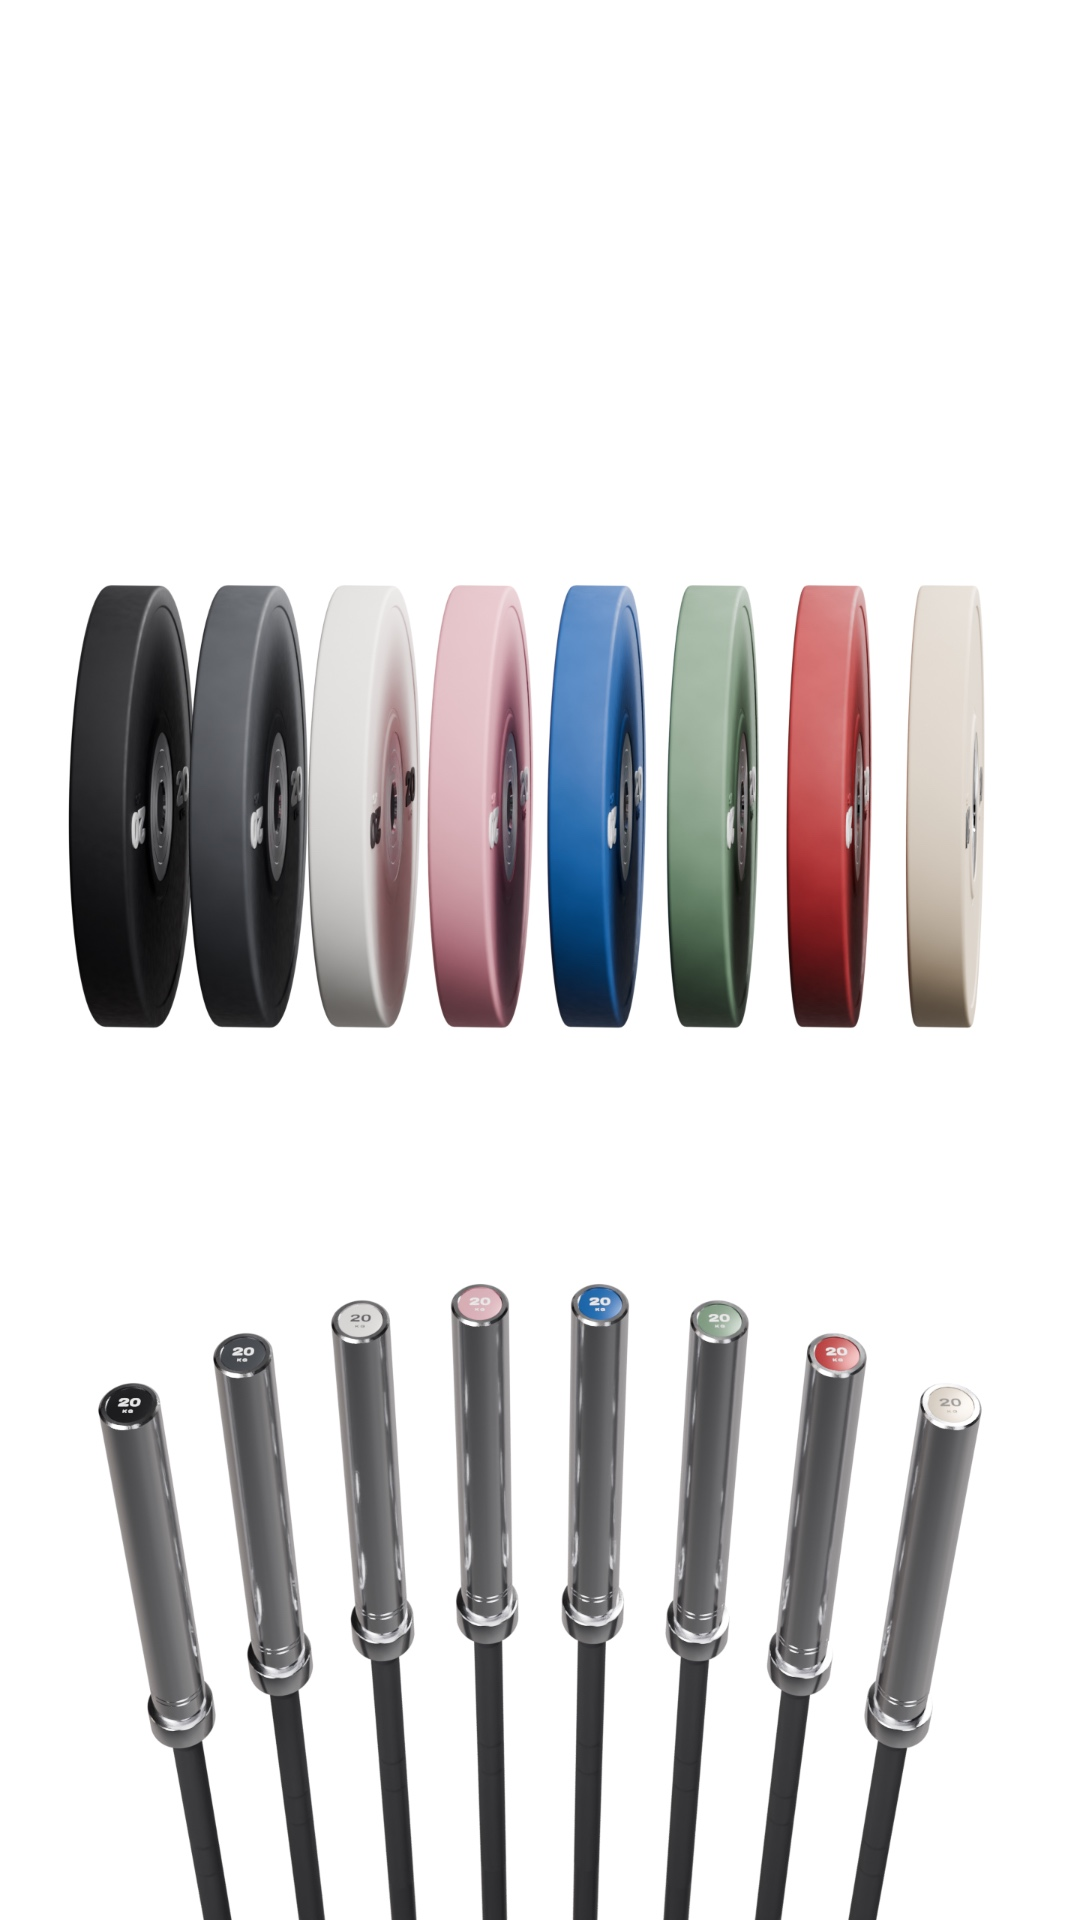
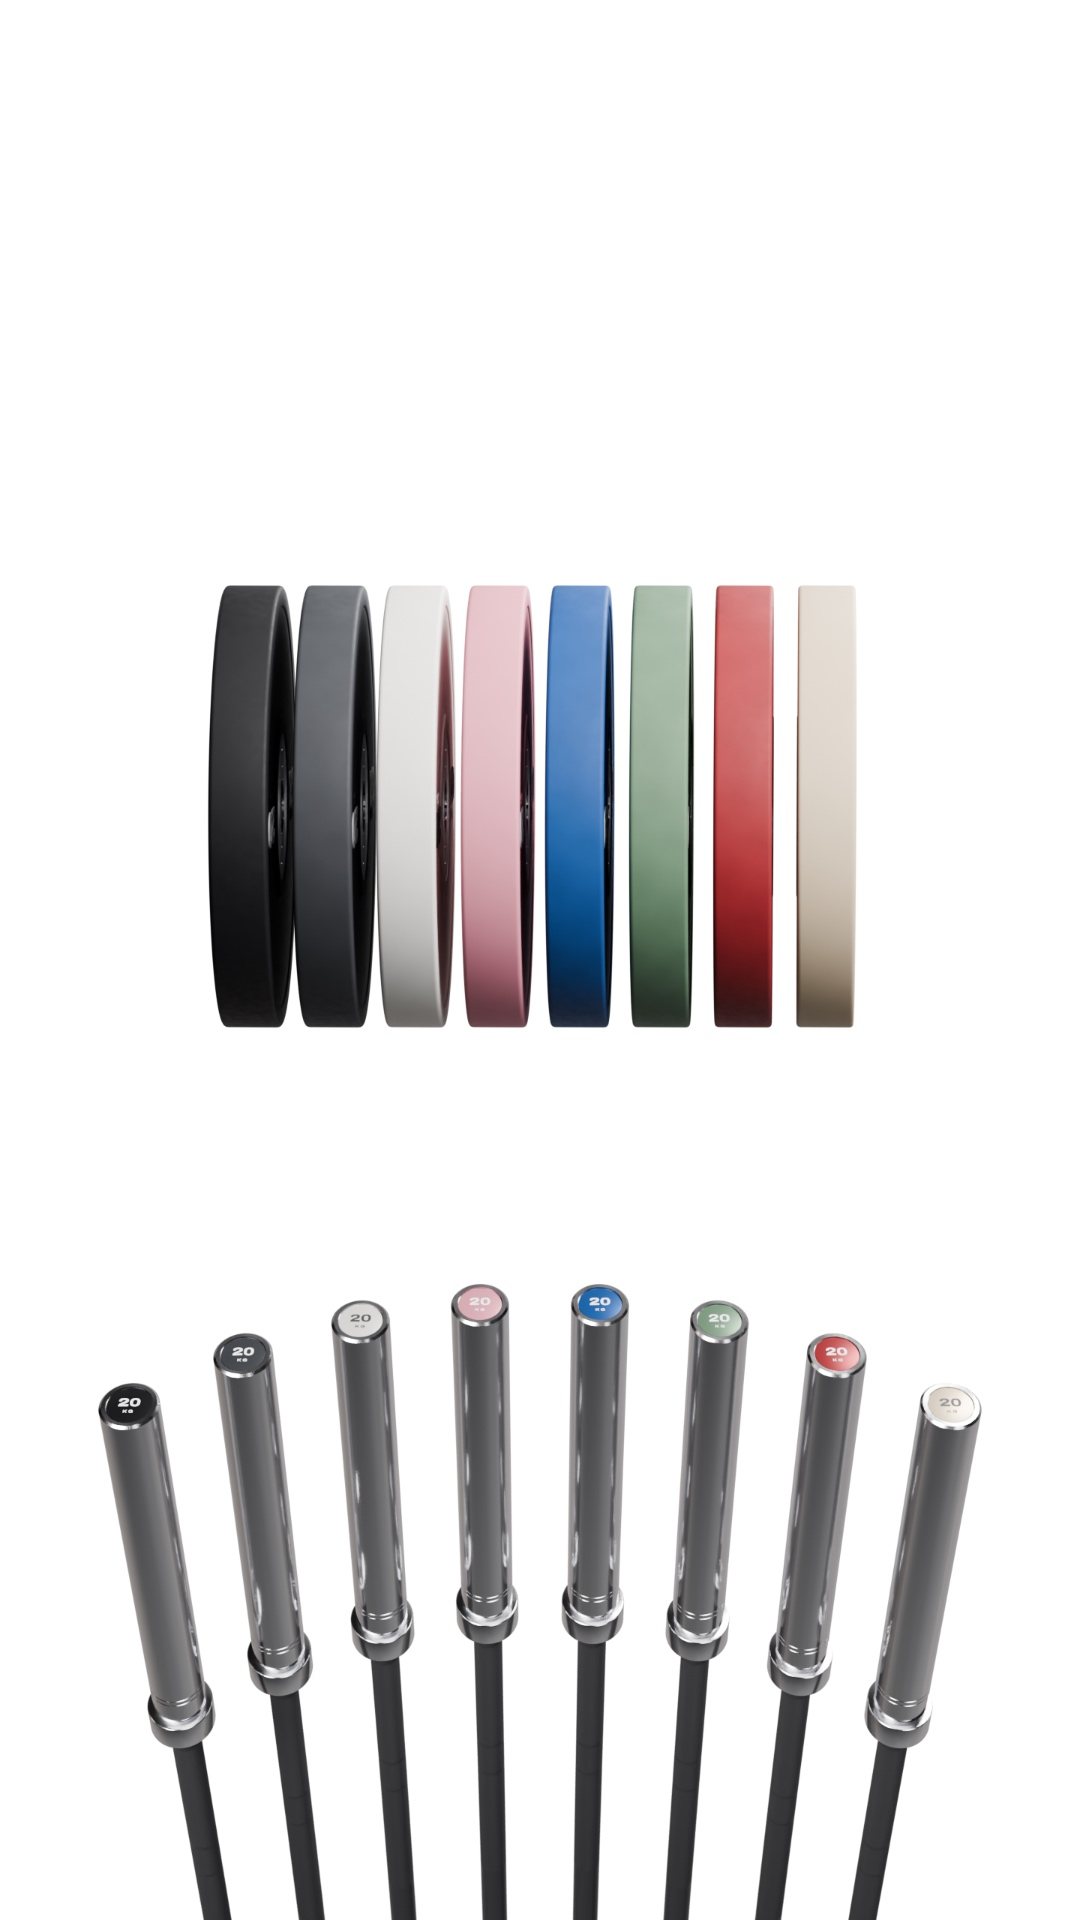
Story 1 : les disques tournés à 88°, presque de profil
- Encore plus tournés vers la droite, à la demande de l'utilisateur.
  Les disques gardent la taille qu'ils avaient à 84° : la rangée est
  plus étroite, les couleurs se lisent en bandes.

Claude-Session: https://claude.ai/code/session_01D9n9ZZi5fk6puDFh7TyVoC

Changed region(s): [[0.0611, 0.2812, 0.5194, 0.5625], [0.55, 0.2812, 0.9167, 0.5625]]

diff --git a/3d/outils/blender/stories.py b/3d/outils/blender/stories.py
@@ -145,7 +145,7 @@ def sbarres():  # the bars alone (the bottom layer of story 1d)
 def s1d():  # the plates standing in a straight row, all turned the same way, a little air between them
     # (the user's reference: the step-8 colour row, more turned and closer); rendered with its own camera, nearly
     # level with the plates, then laid over the bars (sbarres): no floor, no shadow, so the two layers match.
-    yaw = float(ARGS.get('yaw', 84))                    # 22/11: 74, then turned further to the right (the faces more to the right)
+    yaw = float(ARGS.get('yaw', 88))                    # 22/11: 74, 80, 84, then 88: turned further to the right each time
     roll = float(ARGS.get('roll', 0))                   # leaning the plates' tops (negative: to the left)
     p = 0.45 * abs(math.cos(math.radians(yaw))) + 0.058 * abs(math.sin(math.radians(yaw)))   # width of a plate seen from the front
     step = p * float(ARGS.get('gap', 1.13))                 # a small gap between the plates
@@ -153,7 +153,8 @@ def s1d():  # the plates standing in a straight row, all turned the same way, a 
         e = plate(c, name='d%d' % i)                     # the face turned to the right, the rim seen on the left (the reference)
         e.matrix_world = Matrix.Translation(((i - 3.5) * step, 0.0, 0.0)) @ Matrix.Rotation(math.radians(roll), 4, 'Y') @ Matrix.Rotation(math.radians(yaw), 4, 'Z')
     story()
-    width = 8 * step / 0.86                                  # the row fills 86 % of the width
+    p84 = 0.45 * math.cos(math.radians(84)) + 0.058 * math.sin(math.radians(84))
+    width = max(8 * step, 8 * p84 * 1.13) / 0.86             # the plates keep the size they had at 84 degrees (validated)
     dist = width / 2 / (10.125 / 135)                         # lens 135 (a flat perspective), the width of a 9:16 sensor is 36 x 9 / 16 mm
     el = math.radians(7)
     camera((0.0, -dist * math.cos(el), dist * math.sin(el)), (0.0, 0.0, 0.0), lens=135, fstop=32, shift_y=-0.08)

diff --git a/Lis-moi.md b/Lis-moi.md
@@ -38,7 +38,7 @@ Les prototypes :
 
 | Story | Le contenu | Les prototypes |
 |---|---|---|
-| 1 | les barres en arc, et les disques alignés au-dessus, tournés de 84° vers la droite, un petit espace entre eux | une (22/11, d'après ta référence) |
+| 1 | les barres en arc, et les disques alignés au-dessus, tournés de 88° vers la droite (presque de profil), un petit espace entre eux | une (22/11, d'après ta référence) |
 | 2 | les haltères ronds, sur tout l'écran | a en colonne, b les faces, c la gamme de 5 à 40 kg |
 | 3 | l'haltère à disques | a les disques, b l'éclaté, c la paire, d les huit coloris |
 | 4 | les disques vinyle et les pinces, en colonne | ton choix |
